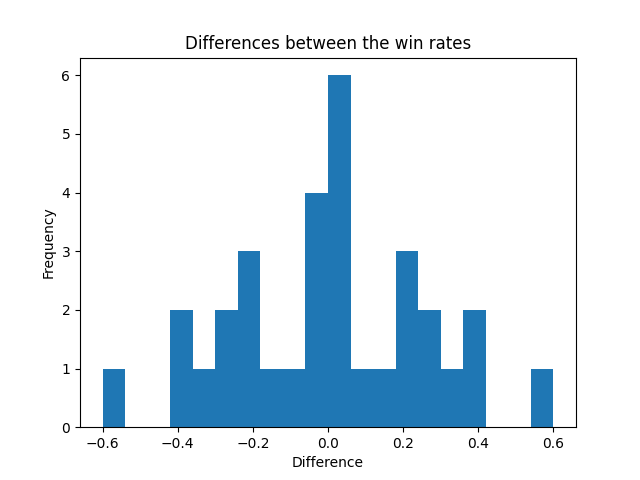
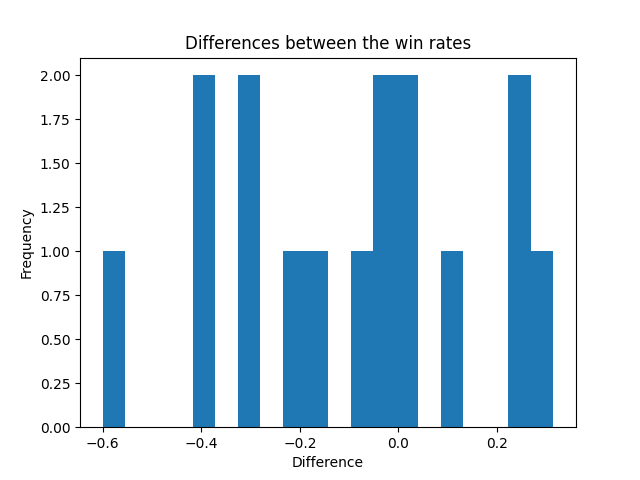
added results

diff --git a/Research/Quantitative/Hypothesis_testing/main.py b/Research/Quantitative/Hypothesis_testing/main.py
@@ -117,10 +117,10 @@ for ids in list_unique_ids:
     win_percentage_not_blind_p2 = game_df[game_df["mode"] == "not blind"]["winner"].value_counts(normalize=True).get('p2', 0)
 
     non_blind_percentages.append(win_percentage_not_blind_p1)
-    non_blind_percentages.append(win_percentage_not_blind_p2)
+    # non_blind_percentages.append(win_percentage_not_blind_p2)
 
     blind_percentages.append(win_percentage_blind_p1)
-    blind_percentages.append(win_percentage_blind_p2)
+    # blind_percentages.append(win_percentage_blind_p2)
 
 # Test the distribution of the differences between the win rates
 

diff --git a/Research/Quantitative/Hypothesis_testing/results.md b/Research/Quantitative/Hypothesis_testing/results.md
@@ -26,9 +26,13 @@ Based on these results, it's reasonable to conclude that the assumption of norma
 
 Now that we've confirmed the normality of the data, we can proceed with the hypothesis test. We'll use a paired samples t-test to compare the winning percentages between the non-blind and blind modes.
 
-The paired samples t-test between the non-blind and blind mode winning percentages resulted in a t-statistic of approximately **-3.67e-17** and a p-value of **1.0**.
+The paired samples t-test between the non-blind and blind mode winning percentages resulted in a t-statistic : **t-statistic = -1.4700373650445964, p-value = 0.1622143698930308**.
 
-The t-statistic is very close to zero, and the p-value is 1, indicating that there is no statistically significant difference between the winning percentages of players in non-blind and blind modes. This suggests that, on average, the mode of the game (non-blind vs. blind) does not significantly affect the winning percentages of the players in this sample.
+The results of the paired samples t-test you provided are used to compare the difference between two groups of data (in this case, the winning percentages in non-blind and blind modes) to see if this difference is statistically significant. The paired samples t-test is commonly used when there are two measurements on the same group, subject, or entity, taken under different conditions (for example, before and after a treatment, or in two different experimental conditions such as non-blind and blind modes in this context).
+
+- **T-statistic**: The value of -1.4700373650445964 indicates the distance between the mean of the observed differences and the hypothesized mean of differences (often zero, if no difference is hypothesized) measured in terms of standard error. A negative value indicates that the mean of the observed differences is lower than the hypothesized mean. However, the direction (positive or negative) alone does not determine significance.
+
+- **P-value**: The value of 0.1622143698930308 represents the probability of obtaining a result at least as extreme as the one observed, assuming that the null hypothesis is true. The null hypothesis, in this case, presumably states that there is no significant difference between the two conditions being tested. A p-value greater than 0.05 (a common threshold for statistical significance) suggests that there is not enough evidence to reject the null hypothesis. In other words, there is no statistically significant difference between the winning percentages in non-blind and blind modes.
 
 ## Conclusion
 
